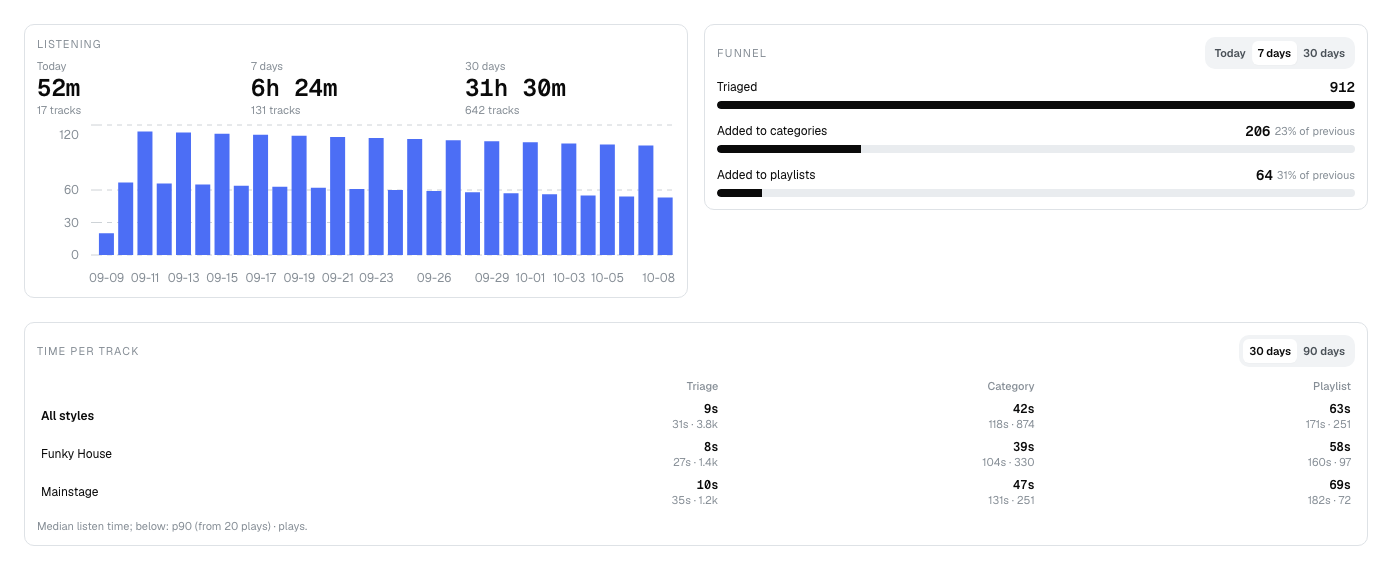
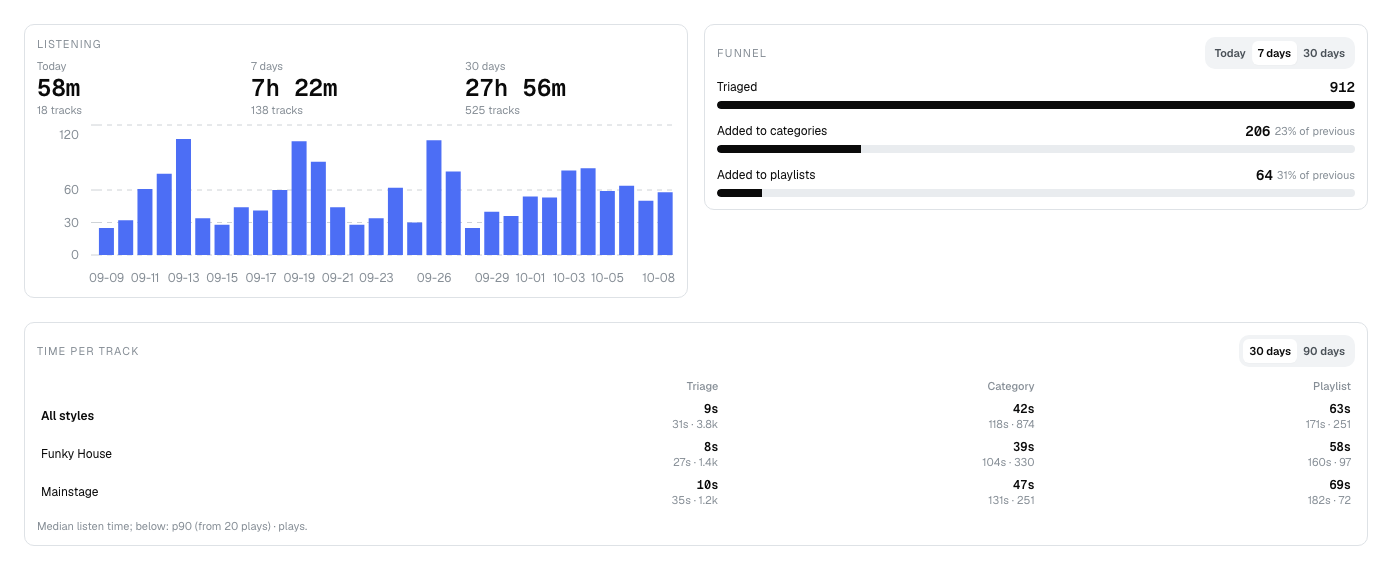
fix(docs): review fixes for README and docs accuracy
- README local run migrates before tests/db; subshell per cd
- counts checked against openapi.yaml and Terraform (105 ops)
- diagrams show API/ingest → Aurora and missing SQS edges
- no money figures in live docs, ADRs, frontend README
- LICENSE allows cloning and running for evaluation
- screenshots: totals from the daily series, fixed locale/timezone

diff --git a/frontend/src/screenshots/readme.shot.tsx b/frontend/src/screenshots/readme.shot.tsx
@@ -22,7 +22,7 @@ import { CoverageMatrix } from '../features/admin/components/CoverageMatrix';
 import type { CoveragePayload } from '../features/admin/hooks/useCoverage';
 import { AutoIngestPanel } from '../features/admin/components/AutoIngestPanel';
 import { AUTO_INGEST_KEY } from '../features/admin/hooks/useAutoIngest';
-import { FunnelCard, ListeningCard, TimePerTrackCard } from '../features/analytics/components/AnalyticsCards';
+import { FunnelCard, ListeningCard, TimePerTrackCard, fmtMinutes } from '../features/analytics/components/AnalyticsCards';
 import { tzOffsetMin } from '../features/analytics/hooks/useAnalytics';
 
 const OUT = '../../../docs/assets';
@@ -158,24 +158,28 @@ describe('README screenshots', () => {
       </Frame>,
     );
     await screen.findByText('Due week: 2026-W39');
+    // Pinned locale/timezone: the 09:41 UTC run reads as such on any machine.
+    expect(screen.getByText('10/8/2026, 9:41:00 AM')).toBeTruthy();
     await shoot('coverage');
   });
 
   test('analytics', async () => {
     const qs = `tz_offset_min=${tzOffsetMin()}`;
+    // A deterministic but irregular month; weekends run longer.
     const daily = Array.from({ length: 30 }, (_, i) => {
       const d = new Date(Date.UTC(2026, 8, 9 + i));
-      const minutes = 20 + ((i * 47) % 95);
-      return { dt: d.toISOString().slice(0, 10), listened_ms: minutes * 60_000, tracks: Math.round(minutes / 3) };
+      const weekend = d.getUTCDay() === 0 || d.getUTCDay() === 6;
+      const minutes = (weekend ? 70 : 25) + ((i * 37 + i * i * 11) % 41);
+      return { dt: d.toISOString().slice(0, 10), listened_ms: minutes * 60_000, tracks: Math.round(minutes / 3.2) };
+    });
+    const total = (days: typeof daily) => ({
+      listened_ms: days.reduce((sum, d) => sum + d.listened_ms, 0),
+      tracks: days.reduce((sum, d) => sum + d.tracks, 0),
     });
     const qc = client((c) => {
       c.setQueryData(['analytics', 'listening', qs], {
         today: '2026-10-08',
-        totals: {
-          day: { listened_ms: 52 * 60_000, tracks: 17 },
-          week: { listened_ms: 6.4 * 3_600_000, tracks: 131 },
-          month: { listened_ms: 31.5 * 3_600_000, tracks: 642 },
-        },
+        totals: { day: total(daily.slice(-1)), week: total(daily.slice(-7)), month: total(daily) },
         daily,
       });
       c.setQueryData(['analytics', 'funnel', qs], {
@@ -216,6 +220,9 @@ describe('README screenshots', () => {
       </Frame>,
     );
     await screen.findByText('Funky House');
+    // Headline totals agree with the bars.
+    const month = daily.reduce((sum, d) => sum + d.listened_ms, 0);
+    expect(screen.getByText(fmtMinutes(month))).toBeTruthy();
     await shoot('analytics');
   });
 });

diff --git a/frontend/vitest.screenshots.config.ts b/frontend/vitest.screenshots.config.ts
@@ -22,6 +22,8 @@ export default defineConfig({
       provider: 'playwright',
       headless: true,
       name: 'chromium',
+      // Same picture on any machine: fixed locale and timezone.
+      providerOptions: { context: { locale: 'en-US', timezoneId: 'UTC' } },
     },
     globals: true,
     setupFiles: ['./src/test/browser-setup.ts'],

diff --git a/tests/unit/test_docs_freshness.py b/tests/unit/test_docs_freshness.py
@@ -7,9 +7,11 @@ import re
 from test_docs_links import ROOT, live_docs
 
 REMOVED = re.compile(
-    r"search_handler|ai_search_results|ai[-_]search[-_]worker|AI_SEARCH_QUEUE_URL|perplexity",
+    r"\bsearch_handler\b|ai_search_results|ai[-_]search[-_]worker|AI_SEARCH_QUEUE_URL|perplexity"
+    r"|propagate_ai_flag",
     re.IGNORECASE,
 )
+MONEY = re.compile(r"[$€£]\s?\d|\d\s?(USD|EUR)\b|per month|/month", re.IGNORECASE)
 
 
 def deployed_handlers() -> set[str]:
@@ -18,9 +20,12 @@ def deployed_handlers() -> set[str]:
 
 
 def test_every_deployed_lambda_is_in_the_architecture_doc() -> None:
+    tf = "\n".join(p.read_text() for p in (ROOT / "infra").glob("*.tf"))
+    # Every Lambda resource contributes a handler the regex can read — none slips past.
+    assert len(deployed_handlers()) == len(re.findall(r'^resource "aws_lambda_function"', tf, re.M))
     doc = (ROOT / "docs" / "architecture.md").read_text()
-    missing = sorted(h for h in deployed_handlers() if f"`{h}`" not in doc)
-    assert len(deployed_handlers()) >= 18 and missing == []
+    documented = set(re.findall(r"`(collector\.[a-z_]+)`", doc))
+    assert documented == deployed_handlers()  # nothing missing, nothing stale
 
 
 def test_live_docs_do_not_describe_removed_components() -> None:
@@ -30,3 +35,33 @@ def test_live_docs_do_not_describe_removed_components() -> None:
             if REMOVED.search(line):
                 hits.append(f"{doc.relative_to(ROOT)}:{n}: {line.strip()[:80]}")
     assert hits == []
+
+
+def test_docs_have_no_money_figures() -> None:
+    extra = [*sorted((ROOT / "docs" / "adr").glob("*.md")), ROOT / "frontend" / "README.md", ROOT / "dbt" / "README.md"]
+    hits = []
+    for doc in [*live_docs(), *(p for p in extra if p.exists())]:
+        for n, line in enumerate(doc.read_text(encoding="utf-8").splitlines(), 1):
+            if MONEY.search(line):
+                hits.append(f"{doc.relative_to(ROOT)}:{n}: {line.strip()[:80]}")
+    assert hits == []
+
+
+def test_diagrams_show_the_api_and_ingest_writes_to_aurora() -> None:
+    readme = (ROOT / "README.md").read_text()
+    arch = (ROOT / "docs" / "architecture.md").read_text()
+    assert re.search(r"^\s*API & AI --> DB\b", readme, re.M)
+    for edge in (r"CAPI & AI --> DB", r"CAPI & BF -->\|SQS\| SPW", r"CUR -->\|SQS\| VMW & DSP & CMT"):
+        assert re.search(edge, arch), edge
+
+
+def test_architecture_table_puts_the_funnel_on_the_collector() -> None:
+    rows = {r.split("|")[1].strip(): r for r in (ROOT / "docs" / "architecture.md").read_text().splitlines()
+            if r.startswith("| `")}
+    assert "funnel" not in rows["`analytics-api`"] and "funnel" in rows["`collector-api`"]
+
+
+def test_env_vars_do_not_claim_registry_publishing() -> None:
+    row = next(r for r in (ROOT / "docs" / "ops" / "env-vars.md").read_text().splitlines()
+               if r.startswith("| `ytmusic`"))
+    assert "playlist publish" not in row  # the registry exporter is a stub

diff --git a/tests/unit/test_readme.py b/tests/unit/test_readme.py
@@ -20,3 +20,40 @@ def test_readme_has_the_reviewer_sections() -> None:
                     "## Known limitations", "## How this was built", "## License"):
         assert heading in README, heading
     assert "```mermaid" in README and "docs/assets/" in README
+
+
+ROOT = Path(__file__).resolve().parents[2]
+
+
+def test_local_run_migrates_before_the_db_tests() -> None:
+    # tests/db needs the schema; each `cd` runs in a subshell so the block works top to bottom.
+    assert README.index("alembic upgrade head") < README.index("pytest tests/db")
+    assert "(cd frontend" in README and "(cd dbt" in README
+
+
+def test_readme_counts_match_the_sources() -> None:
+    import yaml
+
+    spec = yaml.safe_load((ROOT / "docs" / "api" / "openapi.yaml").read_text())
+    ops = sum(1 for path in spec["paths"].values() for m in path if m in {"get", "put", "post", "patch", "delete"})
+    assert set(re.findall(r"(\d+) (?:API )?operations", README)) == {str(ops)}
+    tf = "\n".join(p.read_text() for p in (ROOT / "infra").glob("*.tf"))
+    lambdas = len(re.findall(r'^resource "aws_lambda_function"', tf, re.M))
+    assert set(re.findall(r"(\d+) (?:AWS )?Lambda functions", README)) == {str(lambdas)}
+
+
+def test_readme_lists_every_route_without_the_authorizer() -> None:
+    tf = "\n".join(p.read_text() for p in (ROOT / "infra").glob("*.tf"))
+    open_routes = []
+    for block in re.findall(r'resource "aws_apigatewayv2_route" "[^"]+" \{(.*?)\n\}', tf, re.S):
+        key = re.search(r'route_key\s*=\s*"([A-Z]+ (/[^"]+))"', block)
+        if key and 'authorization_type = "CUSTOM"' not in re.sub(r"\s+", " ", block):
+            open_routes.append(key.group(2))
+    assert len(open_routes) >= 4
+    for path in open_routes:
+        assert f"`{path}`" in README, path
+
+
+def test_license_allows_evaluation() -> None:
+    license_text = (ROOT / "LICENSE").read_text()
+    assert "clone" in license_text and "run" in license_text and "evaluat" in license_text

diff --git a/README.md b/README.md
@@ -33,6 +33,7 @@ flowchart LR
   SCHED["EventBridge Scheduler"] --> AI["auto-ingest λ"]
   API & AI -->|"Beatport API"| RAW[("S3 raw zone")]
   API & AI --> Q[["SQS + DLQ"]]
+  API & AI --> DB
   Q --> CAN["canonicalization λ<br/>contract · set-based upserts"]
   RAW --> CAN
   CAN --> DB[("Aurora PostgreSQL<br/>via RDS Data API")]
@@ -69,12 +70,12 @@ The full diagram and the list of all 18 Lambda functions are in [`docs/architect
 - An event lakehouse: schema-validated telemetry → Firehose → Parquet bronze → dbt (incremental MERGE, SCD2) → Iceberg silver/gold on Athena, with unit and data tests and published lineage.
 
 **Cloud & infrastructure**
-- 18 AWS Lambda functions, 7 SQS work queues each with a dead-letter queue, 2 Step Functions state machines, EventBridge Scheduler, Aurora Serverless v2, S3, Kinesis Data Firehose, Glue, Athena, CodeBuild, API Gateway, CloudFront, KMS, SSM — 228 Terraform resources.
+- 18 AWS Lambda functions, 7 SQS work queues each with a dead-letter queue, 2 Step Functions state machines, EventBridge Scheduler, Aurora Serverless v2, S3, Kinesis Data Firehose, Glue, Athena, CodeBuild, API Gateway, CloudFront, KMS, SSM — 228 Terraform resource definitions.
 - GitHub Actions with OIDC (no long-lived AWS keys), path-filtered PR checks, and a two-phase deploy that lands DB migrations before API code.
 - 27 CloudWatch alarms routed to email through SNS.
 
 **Software engineering**
-- About 3,300 automated tests: ~2,070 backend (including 51 against a real PostgreSQL 16), ~1,230 frontend (unit and real-browser layout tests), plus dbt unit and data tests.
+- About 3,300 automated tests: ~2,080 backend (including 51 against a real PostgreSQL 16), ~1,230 frontend (unit and real-browser layout tests), plus dbt unit and data tests.
 - 27 Architecture Decision Records, an incident runbook, and per-role documentation that is checked by tests (links, Lambda inventory, removed components).
 
 ## AWS services
@@ -82,7 +83,7 @@ The full diagram and the list of all 18 Lambda functions are in [`docs/architect
 | Service | How it is used |
 |---|---|
 | **Lambda** (Python 3.12) | 18 functions: API handlers and a JWT authorizer, SQS workers, scheduled jobs, backfill steps, DB migrations |
-| **API Gateway** (HTTP API) | 104 operations; everything except the OAuth login/callback/refresh routes goes through a Lambda authorizer |
+| **API Gateway** (HTTP API) | 105 operations; everything except the auth routes (`/auth/login`, `/auth/callback`, `/auth/refresh`, `/auth/logout`) goes through a Lambda authorizer |
 | **SQS** | 7 work queues, each with a dead-letter queue and redrive policy |
 | **Step Functions** | Backfill (plan → map over runs → summarize → DQ check) and the nightly dbt transform |
 | **EventBridge / Scheduler** | Nightly catalog export and data-quality checks; daily auto-ingest planning with one-time run schedules |
@@ -130,11 +131,11 @@ Rendered from the app's React components with sample data (`cd frontend && pnpm 
 
 | | |
 |---|---|
-| Canonical catalog | ~100k tracks (2026-10-07 replay), from 107,795 raw records |
+| Canonical catalog | ~98k canonical tracks (2026-10-07), from 107,795 raw records |
 | Spotify match rate | 96.85 % of recent tracks (nightly data-quality check) |
 | Lambda invocations | 156k in 30 days (2026-09-08 → 10-08), 0.016 % errors |
-| Infrastructure | 18 Lambda functions · 7 SQS queues + DLQs · 2 state machines · 228 Terraform resources |
-| API | 104 operations |
+| Infrastructure | 18 Lambda functions · 7 SQS queues + DLQs · 2 state machines · 228 Terraform resource definitions |
+| API | 105 operations |
 | Delivery | 265+ merged pull requests; every merge to `main` deploys to production |
 
 ## Running it locally
@@ -144,16 +145,18 @@ Rendered from the app's React components with sample data (`cd frontend && pnpm 
 python -m pip install -r requirements-dev.txt
 pytest -q
 
-# Tests against a real PostgreSQL
+# Tests against a real PostgreSQL (migrate the schema first)
 docker run -d -p 55433:5432 -e POSTGRES_PASSWORD=postgres postgres:16
+PYTHONPATH=src ALEMBIC_DATABASE_URL=postgresql+psycopg://postgres:postgres@localhost:55433/postgres \
+  alembic upgrade head
 TEST_DATABASE_URL=postgresql://postgres:postgres@localhost:55433/postgres pytest tests/db -q
 
-# Frontend
-cd frontend && pnpm install && pnpm test        # pnpm test:browser for layout tests
+# Frontend (pnpm test:browser for the real-browser layout tests)
+(cd frontend && pnpm install && pnpm test)
 
 # dbt on DuckDB with fixtures
-cd dbt && pip install -r requirements.txt
-DBT_PROFILES_DIR=. dbt seed --target ci && DBT_PROFILES_DIR=. dbt build --target ci
+(cd dbt && pip install -r requirements.txt && export DBT_PROFILES_DIR=. \
+  && dbt seed --target ci && dbt run --target ci --empty && dbt build --target ci --full-refresh --exclude resource_type:seed)
 ```
 
 Deployment runs only through GitHub Actions ([`docs/ops/deploy.md`](docs/ops/deploy.md)).
@@ -177,7 +180,7 @@ Deployment runs only through GitHub Actions ([`docs/ops/deploy.md`](docs/ops/dep
 - 11 of the 18 Lambda functions share one IAM role. Next: a role per function.
 - API Gateway has no throttling or access logs yet, and Aurora deletion protection is off.
 - Matching precision is measured for YouTube Music only. Next: a labelled sample for Spotify.
-- Built for a closed group of DJs: about 100k tracks, growing by 3–5k a week.
+- Built for a closed group of DJs: about 98k tracks, growing by 3–5k a week.
 
 ## How this was built
 

diff --git a/docs/backend/gotchas.md b/docs/backend/gotchas.md
@@ -177,7 +177,7 @@ See also: [ADR-0005](../adr/0005-iam-auth-migration.md).
 
 **Mitigation options:**
 - Retry the same request after a few seconds; the run was likely already created.
-- To eliminate Aurora cold-start latency: set `aurora_serverless_min_acu = 0.5` in `infra/terraform.tfvars` (adds ~$43/month to keep the cluster warm, but eliminates the 503 on first request after idle).
+- To eliminate Aurora cold-start latency: set `aurora_serverless_min_acu = 0.5` in `infra/terraform.tfvars` (pays for an always-warm 0.5 ACU, but eliminates the 503 on first request after idle).
 - Distinguish the API Gateway timeout from application errors: the application always returns `{"error_code": ..., "message": ..., "correlation_id": ...}` (camelCase statusCode in Lambda response); API Gateway's own timeout uses `{"message": "Service Unavailable"}` without `error_code`.
 
 See also: [ADR-0014](../adr/0014-aurora-min-acu-zero.md).
@@ -190,7 +190,7 @@ See also: [ADR-0014](../adr/0014-aurora-min-acu-zero.md).
 
 **Why:** Instagram is the highest-value social field and the cheapest one worth a dedicated pass; running it unconditionally would double Tavily spend on entities the vendor merge already resolved.
 
-**Provenance & cost:** Fields the resolver fills land in `*_info.provenance` as `socials_tier{N}` (1/2/3). Tavily spend (`tavily_credits * TAVILY_USD_PER_CREDIT`, $0.008/credit) is added straight into the run's `cost_usd` counter — it is NOT recorded in any per-cell `usage` jsonb, since the resolver runs once per entity after all vendor cells are written.
+**Provenance & cost:** Fields the resolver fills land in `*_info.provenance` as `socials_tier{N}` (1/2/3). Tavily spend (`tavily_credits * TAVILY_USD_PER_CREDIT`) is added straight into the run's `cost_usd` counter — it is NOT recorded in any per-cell `usage` jsonb, since the resolver runs once per entity after all vendor cells are written.
 
 **Mitigation:** The resolver is disabled by construction when `TAVILY_API_KEY` is empty (`socials_resolver = SocialsResolver(...) if settings.tavily_api_key else None` in both handlers) — no separate feature flag. `SocialsResolver.resolve` never raises; a Tavily failure returns `SocialsResult(error=...)` with zero updates.
 
@@ -200,7 +200,7 @@ See also: [ADR-0014](../adr/0014-aurora-min-acu-zero.md).
 
 ### OpenAI enrichment knobs: `OPENAI_MAX_TOOL_CALLS` is a soft cap
 
-**What:** Both enrichment worker settings classes read `OPENAI_MAX_TOOL_CALLS` (default `3`) and `OPENAI_REASONING_EFFORT` (default `""` = not sent). Per-cell `usage` jsonb now also carries `web_search_calls` (billed at `WEB_SEARCH_FEE_PER_CALL_USD` = $0.01 each, added to `cost_usd`) and `reasoning_tokens`.
+**What:** Both enrichment worker settings classes read `OPENAI_MAX_TOOL_CALLS` (default `3`) and `OPENAI_REASONING_EFFORT` (default `""` = not sent). Per-cell `usage` jsonb now also carries `web_search_calls` (billed at `WEB_SEARCH_FEE_PER_CALL_USD` each, added to `cost_usd`) and `reasoning_tokens`.
 
 **Why:** `max_tool_calls` bounds the OpenAI Responses API's web-search tool loop, but the split experiment (`docs/superpowers/specs/2026-07-16-enrichment-split-experiment-report.md`) measured only ~1.7 average searches even with the cap set to 1 — the model rarely maxes it out. `reasoning_effort` is a latency knob only; reasoning tokens are comped by OpenAI regardless of the setting.
 
@@ -212,7 +212,7 @@ See also: [ADR-0014](../adr/0014-aurora-min-acu-zero.md).
 
 ### List endpoints do not project `is_ai_suspected`
 
-**What:** `GET /labels`, `GET /artists`, and `GET /tracks` do not include the `is_ai_suspected` field in their response items, even though `clouder_labels.is_ai_suspected` is set by `propagate_ai_flag`.
+**What:** `GET /labels`, `GET /artists`, and `GET /tracks` do not include the `is_ai_suspected` field in their response items, even though `clouder_labels.is_ai_suspected` is set by `project_ai_suspected` (label enrichment).
 
 **Why:** The SQL in `ClouderRepository.list_labels` (and equivalents) does not `SELECT is_ai_suspected`. This was an oversight when the column was added.
 

diff --git a/docs/adr/0014-aurora-min-acu-zero.md b/docs/adr/0014-aurora-min-acu-zero.md
@@ -6,17 +6,17 @@ Date: 2026-05-17
 
 CLOUDER's Aurora Serverless v2 cluster is used intermittently: ingest runs a few times per week, enrichment workers are triggered on demand, and user-facing requests cluster around DJ session review periods. Between sessions the cluster can sit idle for hours.
 
-Aurora Serverless v2 supports two idle configurations. With `min_acu >= 0.5`, the cluster is always warm — it maintains at least 0.5 ACUs even with zero traffic. The cost is approximately $43/month for the minimum always-on reservation. With `min_acu=0`, the cluster auto-pauses after the configured idle timeout (`aurora_auto_pause_seconds=300`, i.e. 5 minutes). Auto-pause eliminates the idle cost entirely; the cluster costs nothing when not in use.
+Aurora Serverless v2 supports two idle configurations. With `min_acu >= 0.5`, the cluster is always warm — it maintains at least 0.5 ACUs even with zero traffic. That minimum is billed around the clock. With `min_acu=0`, the cluster auto-pauses after the configured idle timeout (`aurora_auto_pause_seconds=300`, i.e. 5 minutes). Auto-pause eliminates the idle cost entirely; the cluster costs nothing when not in use.
 
 The downside of auto-pause is cold-start latency. When the first request arrives after a pause, Aurora resumes — a process that typically takes 15–25 seconds. API Gateway has a hard 29-second integration timeout. A cold-start resume that takes longer than the remaining gateway budget causes API Gateway to return `{"message":"Service Unavailable"}` (capital S/U) — not a CLOUDER application error. The Lambda usually completes the work in background after the gateway times out.
 
-For the current usage pattern — a small DJ circle, non-real-time admin ingests, infrequent session reviews — the cold-start risk is acceptable. The first request after an idle period may fail but can simply be retried 5–10 seconds later, by which time the cluster is warm. The ~$43/month saving is material for a personal project budget.
+For the current usage pattern — a small DJ circle, non-real-time admin ingests, infrequent session reviews — the cold-start risk is acceptable. The first request after an idle period may fail but can simply be retried 5–10 seconds later, by which time the cluster is warm. Not paying for an always-warm cluster matters for a personal project budget.
 
 If first-request latency becomes unacceptable (e.g. a user-facing search feature with SLA requirements), `aurora_serverless_min_acu=0.5` can be set in `infra/terraform.tfvars` and applied via `terraform apply`. This change takes effect within a few minutes.
 
 ## Decision
 
-Aurora Serverless v2 is configured with `aurora_serverless_min_acu = 0` and `aurora_auto_pause_seconds = 300`. The cluster auto-pauses after five minutes of idle. The cost saving is roughly $43 / month relative to always-warm `min_acu = 0.5`.
+Aurora Serverless v2 is configured with `aurora_serverless_min_acu = 0` and `aurora_auto_pause_seconds = 300`. The cluster auto-pauses after five minutes of idle. Idle hours cost nothing, unlike always-warm `min_acu = 0.5`.
 
 ## Consequences
 

diff --git a/docs/architecture.md b/docs/architecture.md
@@ -53,12 +53,15 @@ flowchart LR
     CAPI & AI --> BP
     CAPI & AI --> RAW
     CAPI & AI --> Q1
+    CAPI & AI --> DB
     Q1 --> CAN
     RAW --> CAN
     CAN --> DB
     CAN -->|SQS| SPW
+    CAPI & BF -->|SQS| SPW
     CAPI -->|SQS| LEN
-    CUR -->|SQS| VMW & DSP
+    CUR -->|SQS| VMW & DSP & CMT
+    CUR -->|publish| VENDORS
     DSP -->|SQS| LEN & CMT
     SPW & VMW & LEN & CMT --> VENDORS
     SPW & VMW & LEN & CMT --> DB
@@ -82,11 +85,11 @@ All functions share one Python package (`src/collector/`); each has its own entr
 
 | Function | Entry module | Trigger | Purpose |
 |---|---|---|---|
-| `collector-api` | `collector.handler` | API Gateway | Admin ingest, catalog reads, admin endpoints (coverage, enrichment, auto-ingest settings) |
+| `collector-api` | `collector.handler` | API Gateway | Admin ingest, catalog reads, the curation funnel (from Aurora), admin endpoints (coverage, enrichment, auto-ingest settings) |
 | `curation` | `collector.curation_handler` | API Gateway | Triage, categories, playlists, tags, publishing to Spotify / YouTube Music |
 | `auth-handler` | `collector.auth_handler` | API Gateway | Spotify OAuth (PKCE) login, callback, refresh-token rotation |
 | `auth-authorizer` | `collector.auth_authorizer` | API Gateway authorizer | Validates the CLOUDER JWT on every protected route |
-| `analytics-api` | `collector.analytics_handler` | API Gateway | Listening / funnel / time-per-track analytics from Athena |
+| `analytics-api` | `collector.analytics_handler` | API Gateway | Listening and time-per-track analytics from Athena |
 | `telemetry` | `collector.telemetry_handler` | API Gateway | Validates SPA telemetry batches and forwards them to Firehose |
 | `auto-ingest` | `collector.auto_ingest_handler` | EventBridge Scheduler | Plans daily runs; logs in to Beatport and ingests due and backfill weeks |
 | `canonicalization-worker` | `collector.worker_handler` | SQS | Contract screening, normalization, canonical upserts |

diff --git a/docs/ops/aurora.md b/docs/ops/aurora.md
@@ -18,7 +18,7 @@ Controlled by three Terraform variables (`infra/variables.tf`):
 
 Current production configuration: `min_acu=0`, `aurora_auto_pause_seconds=300`.
 
-Trade-off: `min_acu=0` saves approximately **$43/month** compared to always-warm `min_acu=0.5`. The cost is a cold-start latency risk: the first request after 300 s of inactivity may time out through API Gateway's 29 s hard limit (see [Cold-start behaviour](#cold-start-behaviour) below).
+Trade-off: `min_acu=0` removes the cost of an always-warm `min_acu=0.5` cluster. The cost is a cold-start latency risk: the first request after 300 s of inactivity may time out through API Gateway's 29 s hard limit (see [Cold-start behaviour](#cold-start-behaviour) below).
 
 To eliminate cold-start 503s at the cost of the above savings:
 
@@ -117,4 +117,4 @@ Distinguishing Aurora cold-start from other 503 causes:
 - Aurora cold-start: happens on the first request after an idle period. The Lambda's CloudWatch log group shows no log lines for the request (Lambda was not invoked at all, or Aurora connection timed out before handler body ran).
 - API GW timeout on a long Beatport crawl: Lambda log shows `request_received` but no `collection_completed`.
 
-**Fix**: set `aurora_serverless_min_acu = 0.5` in `infra/terraform.tfvars` if first-request latency matters more than the ~$43/month cost.
+**Fix**: set `aurora_serverless_min_acu = 0.5` in `infra/terraform.tfvars` if first-request latency matters more than the cost of keeping 0.5 ACU warm.

diff --git a/docs/ops/runbook.md b/docs/ops/runbook.md
@@ -29,7 +29,7 @@ Two root causes produce this symptom:
 **Fix**
 
 - **Immediate**: retry the same request after 5–10 s. Aurora will be warm for subsequent requests.
-- **Persistent cold-start elimination**: set `aurora_serverless_min_acu = 0.5` in `infra/terraform.tfvars`, then `terraform apply`. Cost: ~$43/month more than `min_acu=0`. See `docs/ops/aurora.md` and ADR-0014.
+- **Persistent cold-start elimination**: set `aurora_serverless_min_acu = 0.5` in `infra/terraform.tfvars`, then `terraform apply`. Cost: an always-warm 0.5 ACU instead of nothing while idle. See `docs/ops/aurora.md` and ADR-0014.
 
 ---
 

diff --git a/docs/ops/env-vars.md b/docs/ops/env-vars.md
@@ -32,7 +32,7 @@ Applies to any Lambda that uses `src/collector/providers/registry.py`. Comma-sep
 |-------|--------|-------|
 | `beatport` | Active | Ingest adapter |
 | `spotify` | Active | ISRC lookup + enrichment |
-| `ytmusic` | Active | Metadata lookup for matching; playlist publish |
+| `ytmusic` | Active | Metadata lookup for matching (the registry's exporter is a stub; publishing runs in curation) |
 | `deezer` | Stub | Raises `VendorDisabledError` on use |
 | `apple` | Stub | Raises `VendorDisabledError` on use |
 | `tidal` | Stub | Raises `VendorDisabledError` on use |

diff --git a/docs/backend/testing.md b/docs/backend/testing.md
@@ -38,7 +38,6 @@ Test individual functions and modules in isolation. Examples:
 
 - `test_canonicalize.py` — canonicalization logic with a `FakeDataAPI`.
 - `test_beatport_client.py` — HTTP client with mocked `requests`.
-- `test_ai_flag_propagation.py` — `propagate_ai_flag` logic.
 - `test_auth_handler_*.py` — auth handler routes with fake repository and JWT utils.
 
 Unit tests do not need real Aurora, real AWS credentials, or real vendor API keys.
